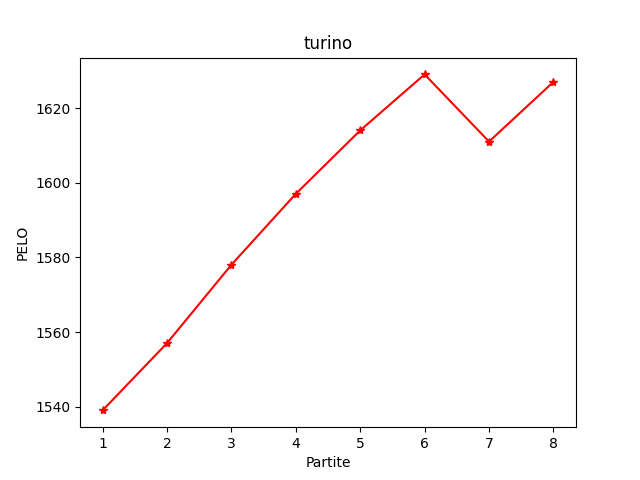
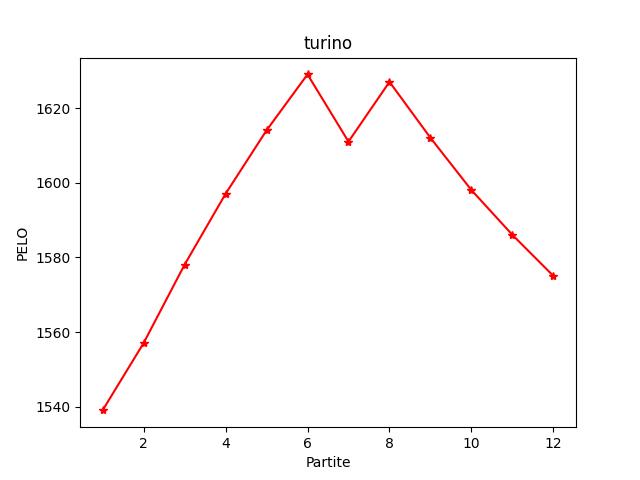
Add files via upload

diff --git a/index.htm b/index.htm
@@ -17,6 +17,15 @@
   <tbody>
     <tr>
       <th>0</th>
+      <td><a href='caprile.png'>caprile</a></td>
+      <td>1694</td>
+      <td>174</td>
+      <td>107</td>
+      <td>1767</td>
+      <td>1537</td>
+    </tr>
+    <tr>
+      <th>1</th>
       <td><a href='devigili.png'>devigili</a></td>
       <td>1646</td>
       <td>11</td>
@@ -25,34 +34,16 @@
       <td>78</td>
     </tr>
     <tr>
-      <th>1</th>
-      <td><a href='turino.png'>turino</a></td>
-      <td>1627</td>
-      <td>10</td>
-      <td>9</td>
-      <td>107</td>
-      <td>79</td>
-    </tr>
-    <tr>
       <th>2</th>
       <td><a href='castellani.png'>castellani</a></td>
-      <td>1625</td>
-      <td>387</td>
-      <td>167</td>
-      <td>3573</td>
-      <td>3856</td>
+      <td>1611</td>
+      <td>390</td>
+      <td>168</td>
+      <td>3602</td>
+      <td>3887</td>
     </tr>
     <tr>
       <th>3</th>
-      <td><a href='caprile.png'>caprile</a></td>
-      <td>1621</td>
-      <td>167</td>
-      <td>101</td>
-      <td>1692</td>
-      <td>1485</td>
-    </tr>
-    <tr>
-      <th>4</th>
       <td><a href='malvagi.png'>malvagi</a></td>
       <td>1611</td>
       <td>60</td>
@@ -61,13 +52,22 @@
       <td>574</td>
     </tr>
     <tr>
-      <th>5</th>
+      <th>4</th>
       <td><a href='zontini.png'>zontini</a></td>
       <td>1585</td>
       <td>201</td>
       <td>107</td>
       <td>2000</td>
       <td>1920</td>
+    </tr>
+    <tr>
+      <th>5</th>
+      <td><a href='turino.png'>turino</a></td>
+      <td>1575</td>
+      <td>14</td>
+      <td>9</td>
+      <td>130</td>
+      <td>123</td>
     </tr>
     <tr>
       <th>6</th>
